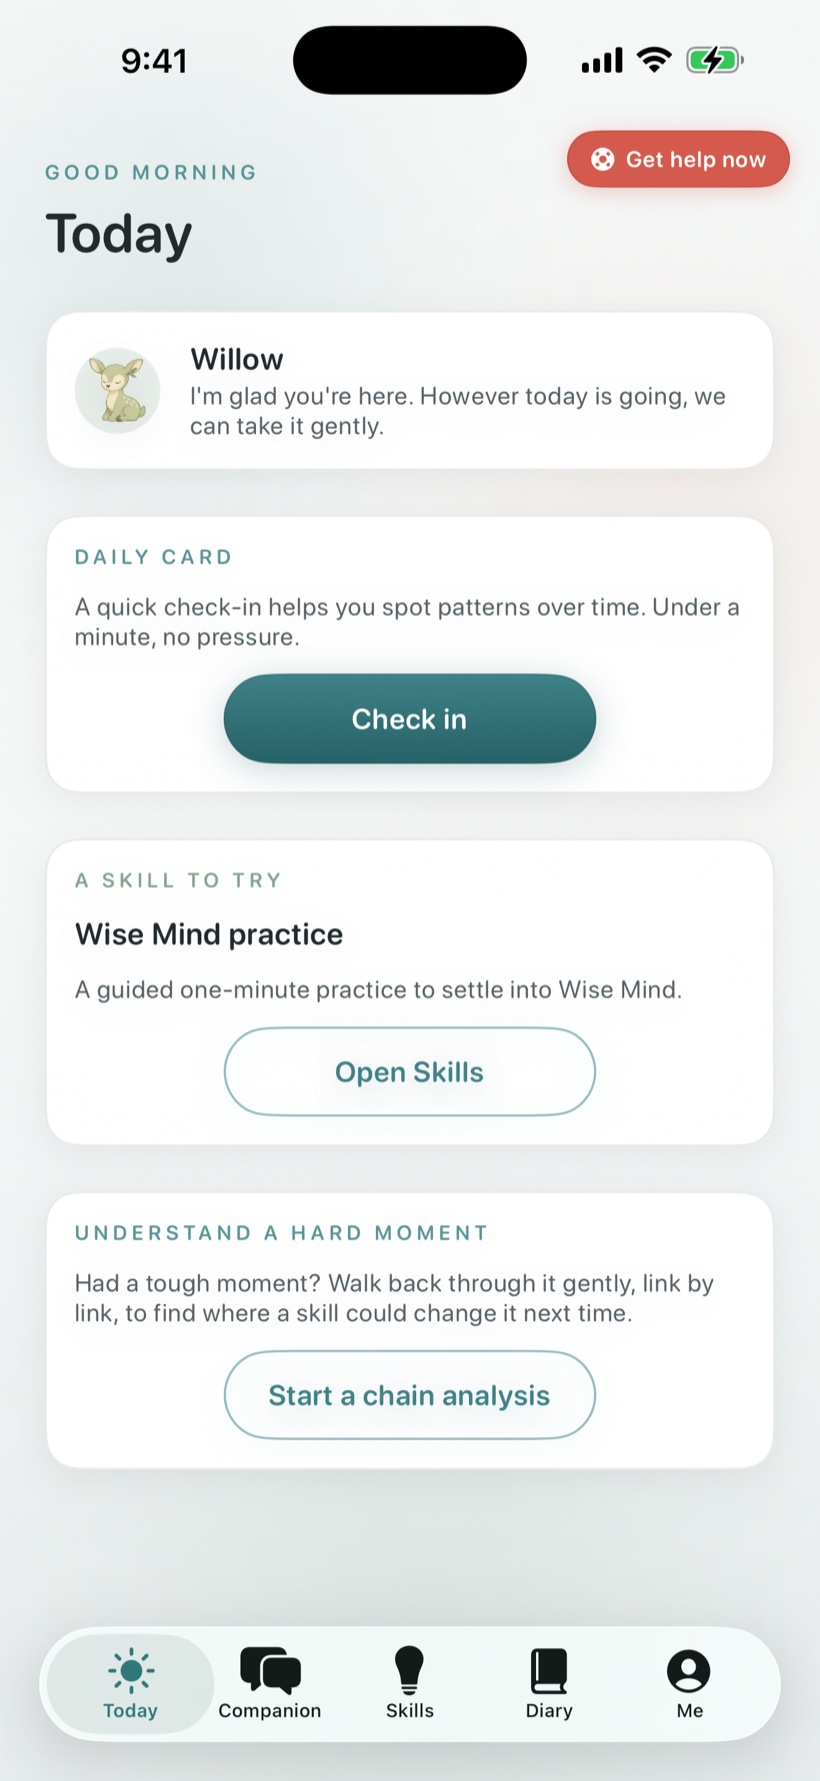
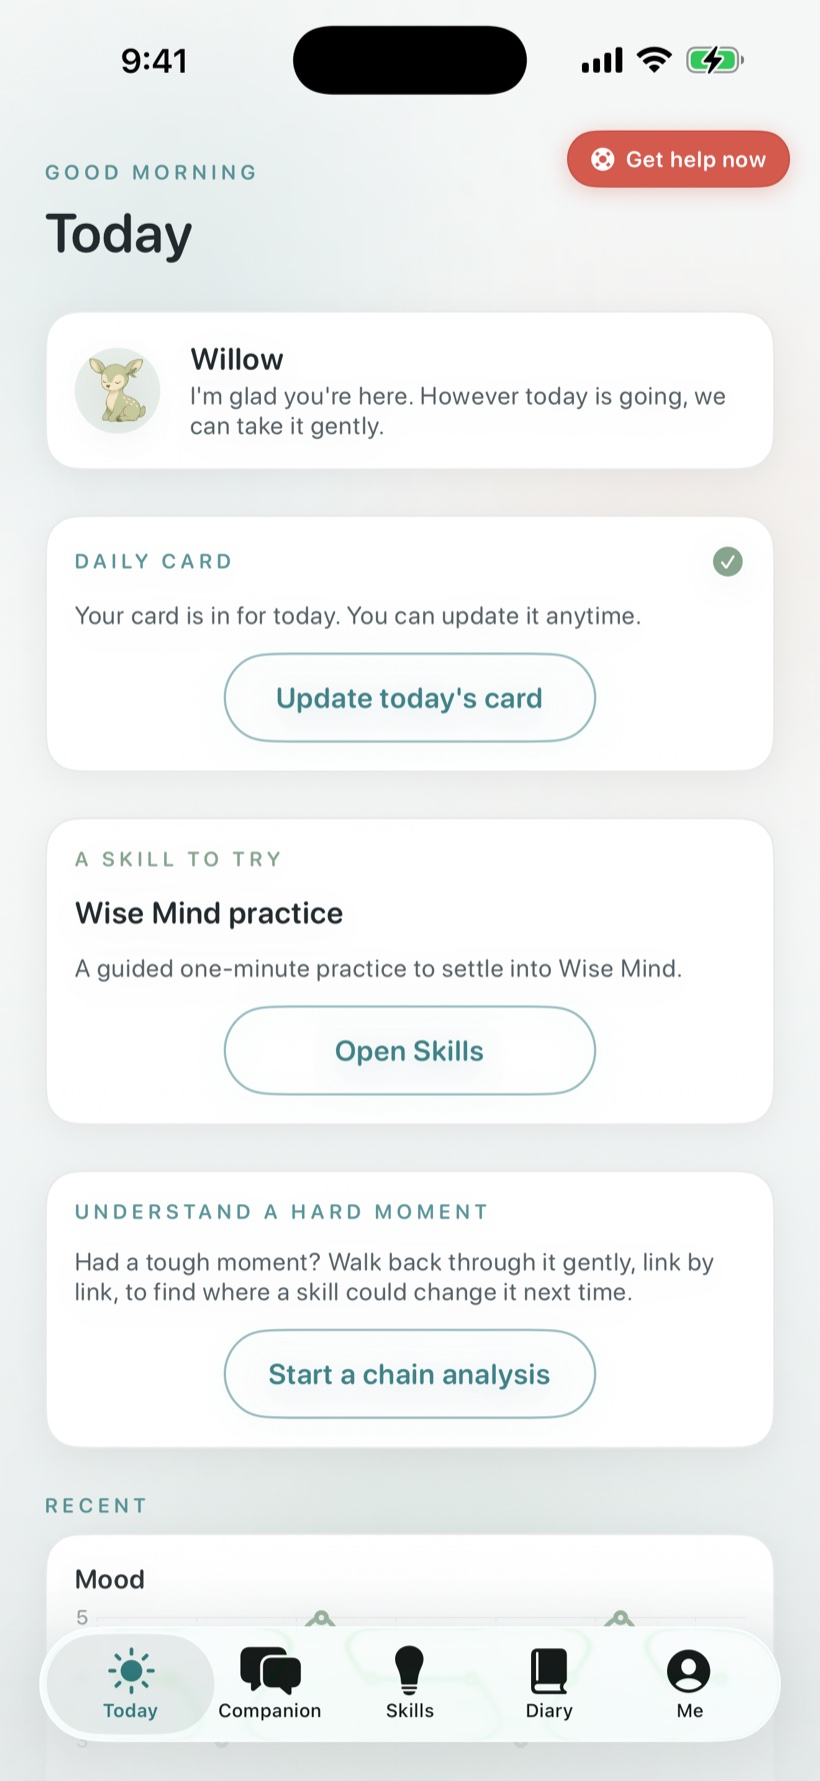
Show lived-in Today + Diary screenshots (demo data)
Recapture Today (light+dark) and Diary from the new -AnchorSeedDemo
build so they show a real, in-use account instead of empty first-run
states: a logged daily card, a 6-of-7 check-in week, and a gentle
mood trend line. Calm by design — SI/self-harm urges stay at 0.

diff --git a/index.html b/index.html
@@ -682,7 +682,7 @@
       <p class="lede" style="text-align:center; margin-left:auto; margin-right:auto;">Warm, plainspoken, and built for hard moments — not a clinical dashboard.</p>
       <div class="screens-grid">
         <div class="screen-card">
-          <div class="screen-frame"><img src="screenshots/01-today.jpg?v=20260626r" alt="Quietoak Today tab — a companion greeting and a one-minute check-in" loading="lazy"></div>
+          <div class="screen-frame"><img src="screenshots/01-today.jpg?v=20260626d" alt="Quietoak Today tab — a companion greeting and a one-minute check-in" loading="lazy"></div>
           <div class="screen-label"><strong>Today</strong>Your companion, every day</div>
         </div>
         <div class="screen-card">
@@ -694,7 +694,7 @@
           <div class="screen-label"><strong>Skills</strong>Real DBT skills, guided</div>
         </div>
         <div class="screen-card">
-          <div class="screen-frame"><img src="screenshots/04-diary.jpg?v=20260626r" alt="Quietoak diary card — mood and emotions in under a minute" loading="lazy"></div>
+          <div class="screen-frame"><img src="screenshots/04-diary.jpg?v=20260626d" alt="Quietoak diary card — mood and emotions in under a minute" loading="lazy"></div>
           <div class="screen-label"><strong>Diary</strong>A one-minute card</div>
         </div>
         <div class="screen-card">
@@ -760,7 +760,7 @@
       <p class="lede" style="text-align:center; max-width: 660px; margin: 0 auto 44px;">Quietoak follows your device's Light or Dark setting — a soft, low-glare night theme for late hours and hard nights. Never harsh, never a stark black void.</p>
       <div class="night-grid">
         <div class="night-card">
-          <div class="screen-frame"><img src="screenshots/dark-today.jpg?v=20260626r" alt="Quietoak Today screen in dark mode" loading="lazy"></div>
+          <div class="screen-frame"><img src="screenshots/dark-today.jpg?v=20260626d" alt="Quietoak Today screen in dark mode" loading="lazy"></div>
           <div class="label"><strong>Today</strong>Your companion, after dark</div>
         </div>
         <div class="night-card">
